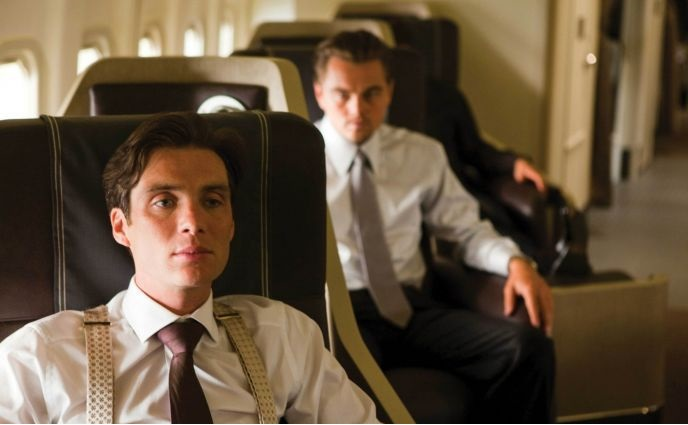
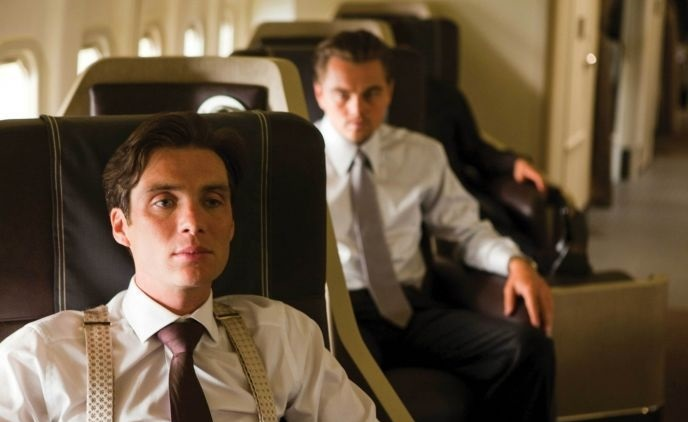
IMG Modification

diff --git a/v1/index.html b/v1/index.html
@@ -112,7 +112,7 @@
                         </p>
                     </div>
                     <div class="personatges2">
-                        <img src="" alt="Eames" width="100%" id="eamess">
+                        <img src="img/eames.jpg" alt="Eames" width="100%" id="eamess">
                         <p>
                             <b>Eames (Tom Hardy): </b>El falsificador, un membre de l'equip de Cobb capaç d'adoptar la forma física de qualsevol 
                             altra persona al món dels somnis, a més de ser una de les ments creatives dins de la gesta del "origen".
